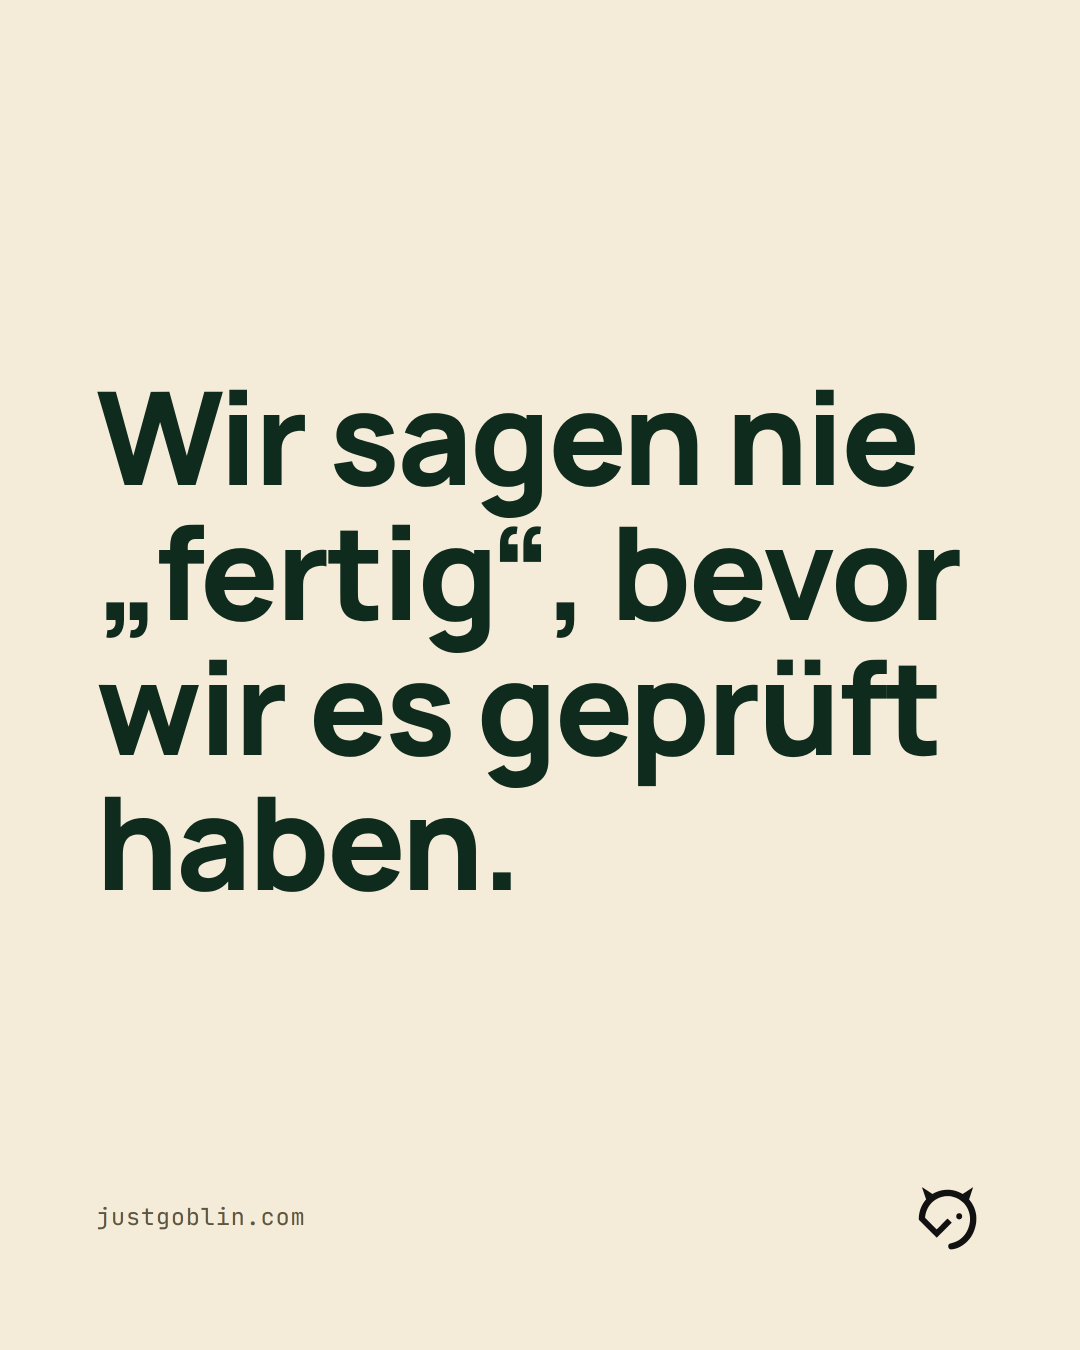
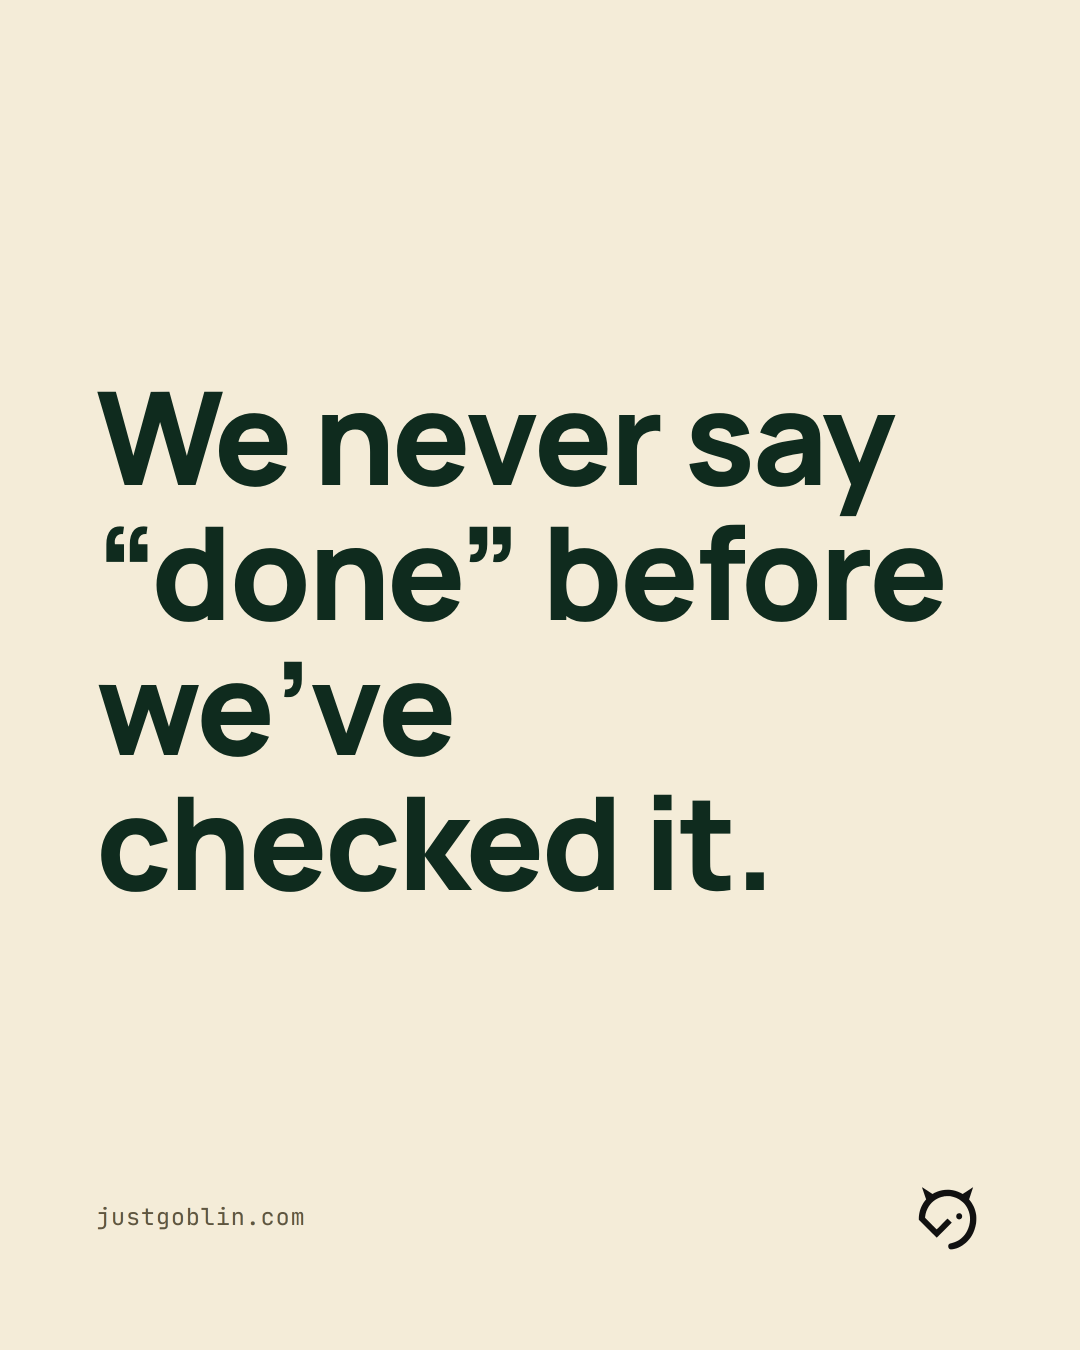
ehrlichkeit: translate to English
"We never say "done" before we've checked it." replaces the German original.
Proper English typographic quotes (U+201C/U+201D) and apostrophe (U+2019).
Caption translated too.

Changed region(s): [[0.0917, 0.28, 0.8861, 0.6844]]

diff --git a/content/social/posts/ehrlichkeit/caption.md b/content/social/posts/ehrlichkeit/caption.md
@@ -1,11 +1,11 @@
-Ein Versprechen, mit dem dieser Account startet:
+A promise this account starts with:
 
-Goblin behauptet keinen Zustand, den es nicht
-geprüft hat. Kein „erfolgreich veröffentlicht“,
-wenn nichts veröffentlicht wurde.
+Goblin never claims a state it hasn’t
+checked. No “successfully published”
+when nothing was published.
 
-Das gilt auch hier. Keine erfundenen Zahlen,
-keine erfundenen Erfolgsgeschichten, kein
-künstlicher Druck.
+The same goes here. No made-up numbers,
+no made-up success stories, no
+artificial pressure.
 
-Wenn etwas noch nicht läuft, sagen wir das.
+If something isn’t working yet, we’ll say so.
